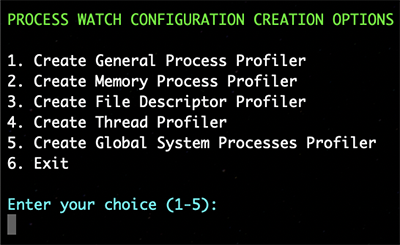
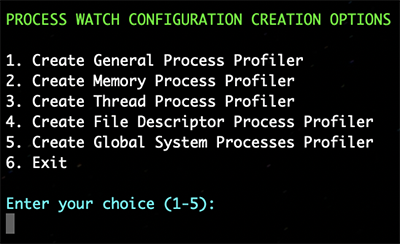
README documentation edits

Changed region(s): [[0.0, 0.2008, 0.96, 0.7172], [0.0, 0.0287, 0.99, 0.1148], [0.0, 0.8033, 0.54, 0.9754]]

diff --git a/tools/config_tool.py b/tools/config_tool.py
@@ -102,8 +102,8 @@ def display_menu():
                 print(f"\n{BRIGHT_GREEN}PROCESS WATCH CONFIGURATION CREATION OPTIONS{RESET}\n")
                 print("1. Create General Process Profiler")
                 print("2. Create Memory Process Profiler")
-                print("3. Create File Descriptor Profiler")
-                print("4. Create Thread Profiler")
+                print("3. Create Thread Process Profiler")
+                print("4. Create File Descriptor Process Profiler")
                 print("5. Create Global System Processes Profiler")
                 print("6. Exit")
                 watch_list_choice = input(f"\n{BRIGHT_CYAN}Enter your choice (1-5):{RESET}\n")
@@ -117,11 +117,11 @@ def display_menu():
                     break
                 if watch_list_choice == '3':
                     clear_screen()
-                    file_descriptor_process_profiler()
+                    thread_process_profiler()
                     break
                 if watch_list_choice == '4':
                     clear_screen()
-                    thread_process_profiler()
+                    file_descriptor_process_profiler()
                     break
                 if watch_list_choice == '5':
                     clear_screen()

diff --git a/README.md b/README.md
@@ -5,12 +5,14 @@
     * The author or owner of this repository is not liable for damages or losses arising from your use or inability to use the code.
 
 ## DESCRIPTION
-Process Watch monitors processes and workflows in your Linux system for anomalies or situations which when arise trigger predetermined actions you designate.
+Process Watch monitors processes in your Linux or macOS system for anomalies or situations which when arise trigger predetermined actions you designate.
 
 This is useful for systems issues, automating troubleshooting, provisioning, scaling, and much more.
 
 ## PREREQUISITES
-Python 3.11 or higher
+* Ubuntu 20.04+
+* macOS 15.4.1
+* Python 3.11 or higher
 
 ## INSTALLATION
 
@@ -31,23 +33,23 @@ Python 3.11 or higher
 
 Configuring Process Watch is done through a configuration tool located in the tools directory. The configuration tool will give you several options to create or manage configurations.
 
-1. `python3 /usr/local/process-watch/tools/config_tool.py`
+`python3 /usr/local/process-watch/tools/config_tool.py`
 
 <img src="documentation/config-tool-menu.png" alt="Config Tool Menu" width="400" height="213">
 
-### Configure Process Profile Configuration
+### Configure Process Profiler Configuration
 
 Process profilers are the different functionalities Process Watch offers based on process utilization. Any time you make a new configuration via the configuration tool you must restart Process Watch by executing `sudo systemctl restart process_watch` for the new config to take effect.
 
-You can access the Process Profile Configuration menu from the main menu by choosing the option "Create a Process Profile Configuration".
+You can access the Process Profiler Configuration menu from the main menu by choosing the option "Create a Process Profiler Configuration".
 
-<img src="documentation/configuration-creation-sub-menu.png" alt="Configuration Creation Menu" width="400" height="245">
+<img src="documentation/configuration-creation-sub-menu.png" alt="Configuration Creation Menu" width="400" height="244">
 
 ### Create General Process Profiler
 
 The General Process Profiler, will monitor the process you dictate at the interval you specify and write CPU, RSS memory usage, file descriptor, and thread count log entry in the logs directory under the naming convention `your-file-name-gen-profiler.log`.
 
-You can create a General Process Profiler via the Process Profile Configuration menu by choosing the option "Create General Process Profiler".
+You can create a General Process Profiler via the Process Profiler Configuration menu by choosing the option "Create General Process Profiler".
 
 See the following example below for configuration options:
 
@@ -57,25 +59,47 @@ See the following example below for configuration options:
 
 The Memory Process Profiler, will monitor the memory utilization for the process you dictate at the interval you specify and write a log entry when you exceed a memory threshold you define in the logs directory under the naming convention `your-file-name-mem-profiler.log`. Memory Process Profiler can also take action when the memory threshold is exceeded. We recommend you write a shell script for the wanted action or actions upon exceeding the memory threshold.
 
-You can create a Memory Process Profiler via the Process Profile Configuration Menu by choosing the option "Create Memory Process Profiler".
+You can create a Memory Process Profiler via the Process Profiler Configuration Menu by choosing the option "Create Memory Process Profiler".
 
 See the following example below for configuration options:
 
 <img src="documentation/memory-process-profiler-settings.png" alt="Memory Process Profiler Settings" width="750" height="334">
+
+### Create Thread Process Profiler
+
+The Thread Process Profiler, will monitor the thread utilization for the process you dictate at the interval you specify and write a log entry when you exceed a thread threshold you define in the logs directory under the naming convention `your-file-name-thrd-profiler.log`. Thread Process Profiler can also take action when the thread threshold is exceeded. We recommend you write a shell script for the wanted action or actions upon exceeding the thread threshold.
+
+You can create a Thread Process Profiler via the Process Profiler Configuration Menu by choosing the option "Create Thread Process Profiler".
+
+See the following example below for configuration options:
+
+<img src="documentation/thread-process-profiler-settings.png" alt="Thread Process Profiler Settings" width="750" height="329">
 
 ### Create File Descriptor Process Profiler
 
 The File Descriptor Process Profiler, will monitor the file descriptor utilization for the process you dictate at the interval you specify and write a log entry when you exceed a file descriptor threshold you define in the logs directory under the naming convention `your-file-name-fds-profiler.log`. File Descriptor Process Profiler can also take action when the file descriptor threshold is exceeded. We recommend you write a shell script for the wanted action or actions upon exceeding the file descriptor threshold.
 
-You can create a File Descriptor Process Profiler via the Process Profile Configuration Menu by choosing the option "Create File Descriptor Process Profiler".
+You can create a File Descriptor Process Profiler via the Process Profiler Configuration Menu by choosing the option "Create File Descriptor Process Profiler".
 
 See the following example below for configuration options:
 
-<img src="documentation/memory-process-profiler-settings.png" alt="Memory Process Profiler Settings" width="750" height="334">
+<img src="documentation/file-descriptor-process-profiler-settings.png" alt="File Descriptor Process Profiler Settings" width="750" height="301">
+
+### Create Global System Processes Profiler
+
+The Global System Processes Profiler, will monitor all processes globally and find the top 5 consumers of Memory (RSS), CPU, Threads, and File Descriptors and log them in the logs directory under the naming convention `glbl-sys-procs-profiler.log`. 
+
+You can create a File Descriptor Process Profiler via the Process Profiler Configuration Menu by choosing the option "Create File Descriptor Process Profiler".
+
+See the following example below for configuration options:
+
+<img src="documentation/global-system-processess-profiler-settings.png" alt="Global System Processes Profiler Settings" width="600" height="112">
 
 ### Quick Notes
 
 * Logs are stored in `/usr/local/process_watch/logs`
 * Each profiler has its own log file.
 * If you need to run Process Watch as a non-root user simply modify the systemd file swapping root for your user.
+* If you need to run your Process Watch action as a non-root user enable it via sudo in your action shell script.
 * If you need access to see the contents of individual Profiler Configuration files they are located at `/usr/local/process_watch/watch_list` under the configuration file name you provided upon creation.
+* We are still looking at how to take action on a process CPU utilization since often times it will spike to 100% however that doesn't mean it needs action taken.
